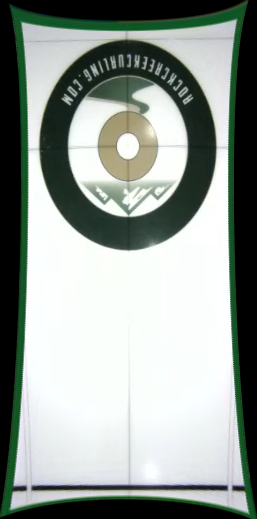
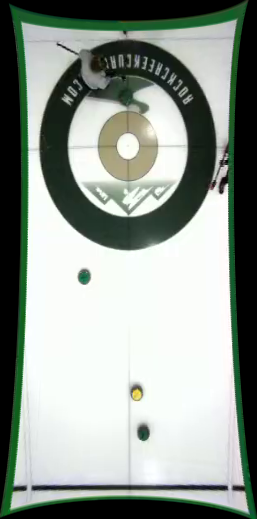
Added tracking of stones across multiple video frames

diff --git a/curling_shot_tracker.py b/curling_shot_tracker.py
@@ -1,12 +1,14 @@
 from dataclasses import dataclass
 from typing import Tuple
+import munkres
+from ultralytics import YOLO
 
 from matplotlib.pyplot import gray
 import cv2 as cv
 import numpy as np  
 import sheet_coordinates as sheet
 import curling_sheet_plotting as sheet_plot
-
+import curling_image_processing as cip
 import matplotlib.pyplot as plt
 
 @dataclass
@@ -32,20 +34,20 @@ def create_camera():
 
     image_coords['pin'] = (129,140)
     image_coords['left_tee_12'] = (22,144)
-    image_coords['left_tee_8'] = (56,143)
-    image_coords['left_tee_4'] = (93,142)
-    image_coords['right_tee_12'] = (235,143)
-    image_coords['right_tee_8'] = (202,141)
+    image_coords['left_tee_8'] = (55,142)
+    image_coords['left_tee_4'] = (93,140)
+    image_coords['right_tee_12'] = (235,141)
+    image_coords['right_tee_8'] = (202,140)
     image_coords['right_tee_4'] = (165,141)
     image_coords['top_center_12'] = (130,266)
     image_coords['top_center_8'] = (130,226)
     image_coords['top_center_4'] = (130,182)
     image_coords['back_center_12'] = (127,18)
-    image_coords['back_center_8'] = (128,57)
+    image_coords['back_center_8'] = (128,56)
     image_coords['back_center_4'] = (129,98)
 
-    image_coords['left_back_corner'] = (5,26)
-    image_coords['right_back_corner'] = (252,25)
+    image_coords['left_back_corner'] = (-2,24)
+    image_coords['right_back_corner'] = (259,24)
 
     image_shape = list(image.shape[0:2][::-1])
 
@@ -66,7 +68,7 @@ def create_camera():
 
     print("Error in projection : \n", ret)
 
-    return camera    
+    return camera
 
 def sheet_to_image_coordinates(camera: Camera, points_3d: np.ndarray) -> np.ndarray:
     projected_points, _ = cv.projectPoints(points_3d, camera.rotation_vectors, camera.translation_vectors, camera.camera_matrix, camera.distortion_coefficients)
@@ -91,30 +93,173 @@ def image_to_sheet_coordinates(camera: Camera, image_points: np.ndarray) -> np.n
 
     return np.array(sheet_points)
 
-def output_undistorted_image(camera: Camera, image: np.ndarray) -> np.ndarray:
+def undistort_image(camera: Camera, image: np.ndarray) -> np.ndarray:
     image_shape = list(image.shape[0:2][::-1])
     newcameramtx, roi = cv.getOptimalNewCameraMatrix(camera.camera_matrix, camera.distortion_coefficients, image_shape, 1.0, image_shape)
     undistorted_image = cv.undistort(image, camera.camera_matrix, camera.distortion_coefficients, None, newcameramtx)
     return undistorted_image
 
+class StoneDetector:
+    def __init__(self, model_path: str):
+        self.model = YOLO(model_path)
+
+    def detect_stones(self, image) -> dict:
+        stones = {}
+        stones['green'] = []
+        stones['yellow'] = []
+
+        results = self.model.predict(source=image, save=False, save_txt=False, conf=0.5)
+        for result in results:
+            for box in result.boxes:
+                x1, y1, x2, y2 = box.xyxy[0]
+                x_center = int((x1 + x2) / 2)
+                y_center = int((y1 + y2) / 2)
+                class_id = int(box.cls[0])
+                if class_id == 0:
+                    stones['green'].append((x_center, y_center))
+                elif class_id == 1:
+                    stones['yellow'].append((x_center, y_center))
+
+        stones['green'] = np.array(stones['green'])
+        stones['yellow'] = np.array(stones['yellow'])
+        stones['green'] = stones['green'].astype('float32')
+        stones['yellow'] = stones['yellow'].astype('float32')
+
+        return stones
+
+def distance(p1: Tuple[float, float], p2: Tuple[float, float]) -> float:
+    return np.sqrt((p1[0] - p2[0])**2 + (p1[1] - p2[1])**2)
+
+class Rock:
+    def __init__(self, color: str, initial_position: Tuple[float, float]):
+        self.color = color
+        self.position_history = [initial_position]
+
+    def update_position(self, new_position: Tuple[float, float]):
+        self.position_history.append(new_position)
+
+    def get_latest_position(self) -> Tuple[float, float]:
+        return self.position_history[-1]
+
+class GameState:
+    def __init__(self):
+        self.rocks = []
+
+    def add_stone_detections(self, stone_positions: dict):
+        detected_rocks = []
+        for color in ['green', 'yellow']:
+            for pos in stone_positions[color]:
+                detected_rocks.append(Rock(color, pos))
+        matrix = []
+        for i, val1 in enumerate(self.rocks):
+            for j, val2 in enumerate(detected_rocks):        
+                if len(matrix) < i+1:
+                    matrix.append([])
+                if len(matrix[i]) < j+1:
+                    matrix[i].append([])
+                if val1.color != val2.color:
+                    matrix[i][j] = float('inf')
+                else:
+                    matrix[i][j] = distance(val2.get_latest_position(), val1.get_latest_position())
+
+        if len(matrix) == 0:
+            self.rocks.extend(detected_rocks)
+            return
+
+        new_rocks = []
+        m = munkres.Munkres()
+        best_idxs = m.compute(matrix)
+        
+        remaining_rocks = set(range(len(detected_rocks)))
+        for (r, c) in best_idxs:
+            self.rocks[r].update_position(detected_rocks[c].get_latest_position())
+            remaining_rocks.remove(c)
+
+        for idx in remaining_rocks:
+            new_rocks.append(detected_rocks[idx])
+
+        self.rocks.extend(new_rocks)
+
 def main():
-    image_path = 'data/example_sheet.png'
-    image = cv.imread(image_path)
+    #image_path = 'data/example_sheet_stones2.png'
+    #image = cv.imread(image_path)
 
+    video_path = 'C:\\Users\\abran\\Desktop\\curling_videos\\full_example_video.mp4'
+    cap = cv.VideoCapture(video_path)
     camera = create_camera()
+    
+    game = GameState()
+    stone_detector = StoneDetector('./object_detection/runs/detect/train/weights/best.pt') 
 
-    undistort_test = np.array([(142,290),(144,160),(129,492)])
+    #start_frame = (43*60 + 53) * cap.get(cv.CAP_PROP_FPS)
+    #end_frame = (44*60 + 7) * cap.get(cv.CAP_PROP_FPS)
 
-    undistort_test = undistort_test.astype('float32')
-    sheet_coords = image_to_sheet_coordinates(camera, undistort_test)
+    start_frame = (2*3600 + 36*60 + 38) * cap.get(cv.CAP_PROP_FPS)
+    end_frame = (2*3600 + 36*60 + 49) * cap.get(cv.CAP_PROP_FPS)
+
+    cap.set(cv.CAP_PROP_POS_FRAMES, start_frame)
+
+    frame_count = 0
+    frame_interval = 1
+    print("Starting processing video...")
+    while cap.isOpened():
+        ret, frame = cap.read()
+
+        if not ret or cap.get(cv.CAP_PROP_POS_FRAMES) > end_frame:
+            print("End of video or error reading frame.")
+            break
+
+        if frame_count % frame_interval != 0:
+            frame_count += 1
+            continue
+
+        top_down_a, top_down_b, angled_a, angled_b = cip.split_stream_frame(frame)
+        image = top_down_a
+        undistorted_image = undistort_image(camera, image)
+
+        stones = stone_detector.detect_stones(undistorted_image)   
+
+        green_stones = stones['green']
+        yellow_stones = stones['yellow']
+
+        green_sheet_coords = image_to_sheet_coordinates(camera, green_stones)
+        yellow_sheet_coords = image_to_sheet_coordinates(camera, yellow_stones)
+
+        stone_positions = {'green': [(p[0], p[1]) for p in green_sheet_coords],
+                           'yellow': [(p[0], p[1]) for p in yellow_sheet_coords]}
+        
+        game.add_stone_detections(stone_positions)
+        frame_count += 1
+
 
     fig, ax = plt.subplots()
     sheet_plot.plot_sheet_side_a(fig, ax)
     sheet_plot.set_sheet_plot_limits(ax)
-    sheet_plot.plot_stones(ax, sheet_coords, color='green')
+    for rock in game.rocks:
+        if len(rock.position_history) > 50:
+            sheet_plot.plot_stone(ax, rock.get_latest_position(), rock.position_history, color=rock.color)
+
     plt.show()
 
-    cv.imwrite('data/example_sheet_undistorted.png', output_undistorted_image(camera, image))
+def new_stone_test():
+    game = GameState()
+    game.add_stone_detections({'green': [(0.0, 0.0), (5.0, 5.0)],
+                             'yellow': [(2.0, 2.0)]})
+    
+    game.add_stone_detections({'green': [(0.5, 0.5), (5.5, 5.5)],
+                             'yellow': [(2.5, 2.5)]})
+    
+    game.add_stone_detections({'green': [(0.75, 0.75), (5.75, 5.75)],
+                            'yellow': [(2.75, 2.75), (10.0, 10.0)]})
+
+    game.add_stone_detections({'green': [(0.75, 0.75), (5.75, 5.75)],
+                            'yellow': [(10.5, 10.5)]})
+
+    game.add_stone_detections({'green': [],
+                            'yellow': []})
+
+    for rock in game.rocks:
+        print(f"Rock color: {rock.color}, Position history: {rock.position_history}")
 
 if __name__ == "__main__":
     main()

diff --git a/curling_sheet_plotting.py b/curling_sheet_plotting.py
@@ -51,11 +51,15 @@ def plot_sheet_side_a(fig, ax):
     # 5. Set the aspect ratio to 'equal' to ensure the circle appears circular
     ax.set_aspect('equal', adjustable='box')
 
-def plot_stones(ax, stone_positions, color='yellow'):
-    for pos in stone_positions:
-        stone = patches.Circle((pos[0], pos[1]), 0.5,
-                               edgecolor=color, facecolor=color, alpha=1.0,zorder=10)
+def plot_stone(ax, stone_position, stone_path=None, color='yellow'):
+        stone = patches.Circle((stone_position[0], stone_position[1]), 0.5,
+                                edgecolor=color, facecolor=color, alpha=1.0,zorder=10)
         ax.add_patch(stone)
+
+        if stone_path is not None:
+            path_xs = [pos[0] for pos in stone_path]
+            path_ys = [pos[1] for pos in stone_path]
+            ax.plot(path_xs, path_ys, color=color, linewidth=1, linestyle='--', zorder=5)
 
 def set_sheet_plot_limits(ax):
     ax.set_xlim(-8, 8)

diff --git a/object_detection/ultra_train.py b/object_detection/ultra_train.py
@@ -1,14 +1,15 @@
 from ultralytics import YOLO
 from ultralytics import settings
 import torch
+
 def main():
     torch.cuda.empty_cache()
 
     settings.update({'tensorboard': True})
 
     # Your YOLO training code goes here
-    model = YOLO("yolov9m.pt")
-    model.train(data="./data/curling_stone_topdown.yaml", epochs=10, imgsz=519, batch=8, rect=True, device=0)
+    model = YOLO("yolov9s.pt")
+    model.train(data="./data/curling_stone_topdown.yaml", epochs=50, imgsz=519, batch=8, rect=True, device=0)
 
 if __name__ == '__main__':
     main()

diff --git a/object_detection/ultra_test.py b/object_detection/ultra_test.py
@@ -5,7 +5,7 @@ def main():
     torch.cuda.empty_cache()
 
     print("Training complete. Starting evaluation...")
-    test_model = YOLO("./runs/detect/train/weights/best.pt")
+    test_model = YOLO("./runs/detect/train3/weights/best.pt")
 
     results = test_model.val(data="./data/curling_stone_topdown.yaml", split="test")
     print(results)

diff --git a/README.md b/README.md
@@ -1,1 +1,3 @@
 # curling-stone-tracker
+
+ffmpeg -i ".\Thursday Fall League (Sheet D) [h0o8uXnJbks].mp4" -ss 00:43:53 -t 00:44:07 example.mp4
